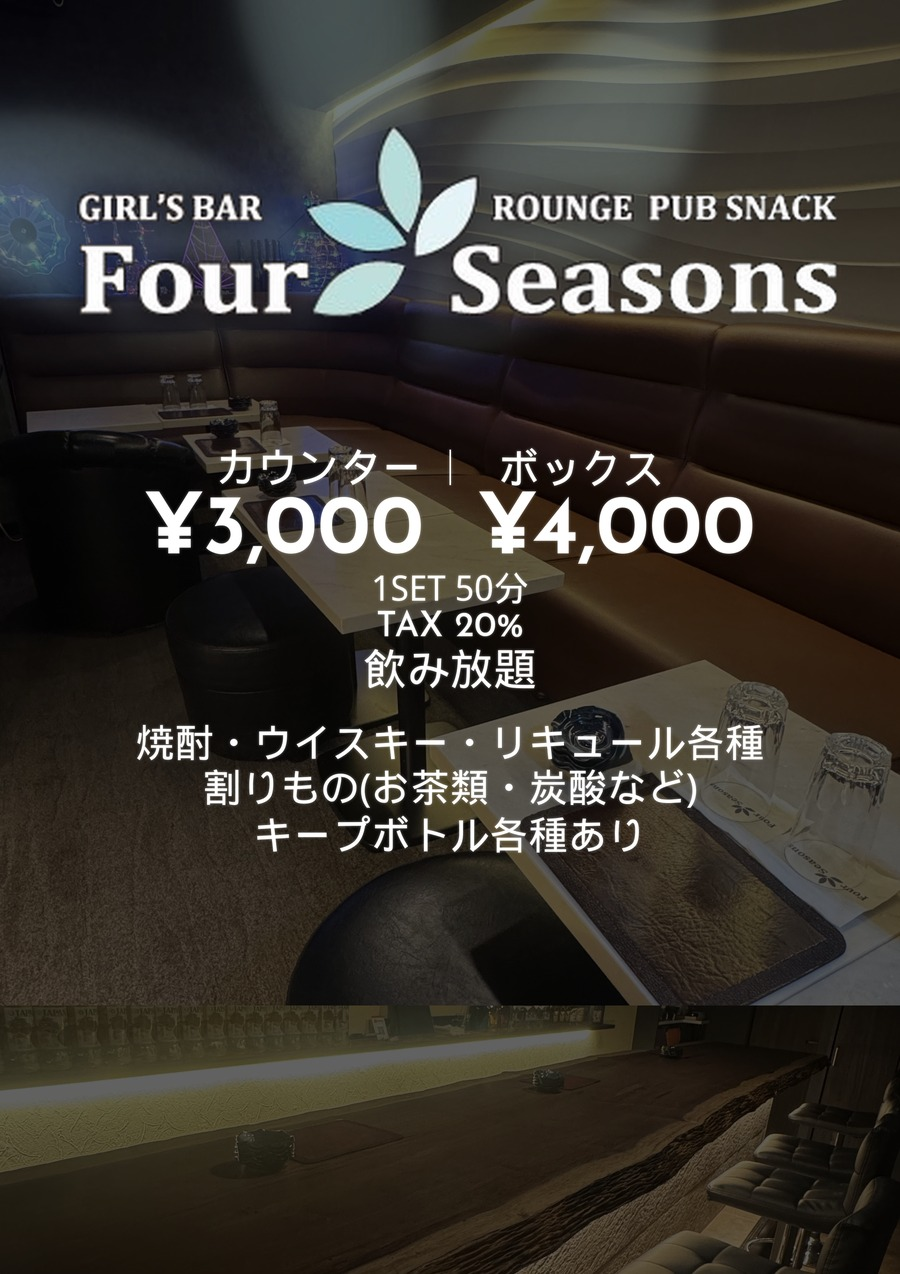
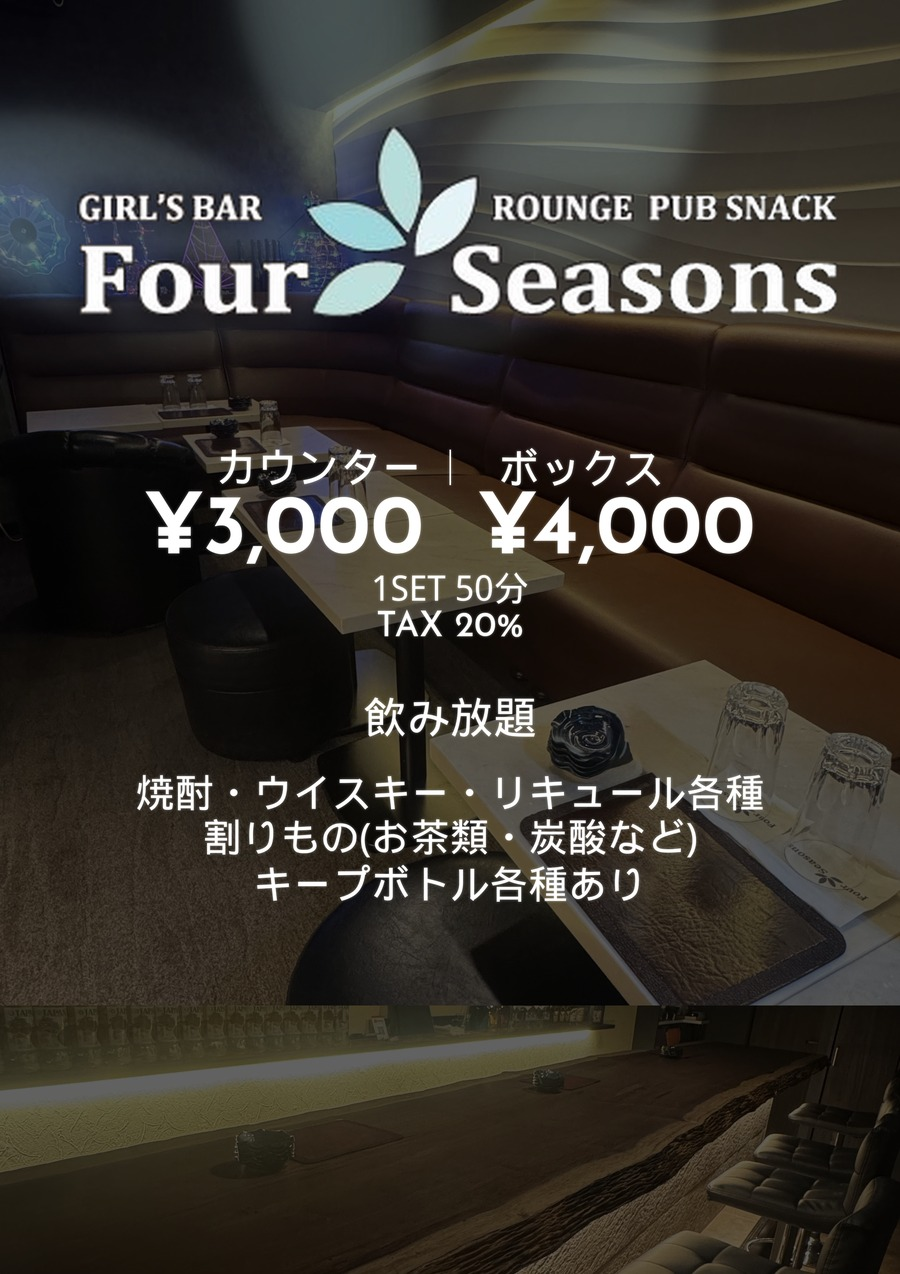
Restore TAX to 飲み放題 spacing from prior preview
Match the previous center-to-center gaps (TAX→飲み放題 ~186px,
飲み放題→details ~150px) so the text-layer rebuild feels the same.

Changed region(s): [[0.1556, 0.4898, 0.8711, 0.7041]]

diff --git a/Documents/フラット/FourSeasons_interior_A1/build_signage_preview.py b/Documents/フラット/FourSeasons_interior_A1/build_signage_preview.py
@@ -30,9 +30,10 @@ BOX = {"x0": 0.0922, "y0": 0.1240, "x1": 0.9211, "y1": 0.2920}
 MAIN_SCALE_BOOST = 1.02
 NUDGE_UP = 0.035
 TEXT_NUDGE_DOWN = 0.035
-# 飲み放題の下に広めの空き（以前の指定をテキスト座標で再現）
-NOMI_GAP = 0.058
-LINE_GAP = 0.036
+# 以前プレビューの行間（中心間px / 2529）に合わせる
+TAX_TO_NOMI = 186 / 2529  # TAX → 飲み放題
+NOMI_GAP = 150 / 2529  # 飲み放題 → 詳細1行目
+LINE_GAP = 90 / 2529  # 詳細行どうし
 
 SOURCE_LOGO = ASSETS / "logo_four_seasons_cyan_petals_source.png"
 LOGO_ASSET = ASSETS / "logo_four_seasons_cyan_petals.png"
@@ -194,7 +195,7 @@ def draw_text_layer(size: tuple[int, int], logo_bottom_y: int) -> Image.Image:
     y += int(70 * s)
     center_text(draw, (cx, y), "TAX 20%", f_mid, white)
 
-    y += int(90 * s)
+    y += int(H * TAX_TO_NOMI)
     center_text(draw, (cx, y), "飲み放題", f_nomi, white)
 
     y += int(H * NOMI_GAP)
